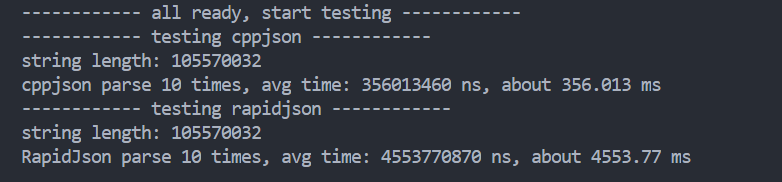
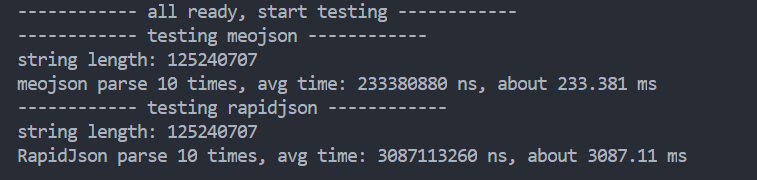
rename project name to 'meojson'

diff --git a/sample/sample.cpp b/sample/sample.cpp
@@ -11,7 +11,7 @@ int main()
         std::string content = R"(
         {
             "prject": {
-                "name": "cppjson",
+                "name": "meojson",
                 "list": [ 
                     1, 2, 3
                 ]
@@ -24,7 +24,7 @@ int main()
 
         if (ret)
         {
-            // Output "cppjson"
+            // Output "meojson"
             std::cout << value["prject"]["name"].as_string() << std::endl;
             // Output 2
             std::cout << value["prject"]["list"][1].as_integer() << std::endl;
@@ -42,27 +42,22 @@ int main()
         std::cout << "****** Generating ******" << std::endl;
 
         json::value json;
-        json["lib"] = "cppjson";
+        json["lib"] = "meojson";
         json["Pi"] = 3.1416;
         json["stars"] = 0;
         json["stars"] = json["stars"].as_integer() + 1;
 
         json["arr"] = json::array(
-            {"a", "b", "c"}
-        );
+            {"a", "b", "c"});
 
         json["obj_aaa"] = json::object(
-            {
-                {"key1", "value1"},
-                {"key2", 123}
-            }
-        );
+            {{"key1", "value1"},
+             {"key2", 123}});
 
         json["obj_bbb"]["key3"] = json::array(
-            {1, 2, 3}
-        );
+            {1, 2, 3});
 
-        // Output "{"obj_bbb":{"key3":[1,2,3]},"obj_aaa":{"key2":123,"key1":"value1"},"arr":["a","b","c"],"Pi":3.141600,"stars":1,"lib":"cppjson"}"
+        // Output "{"obj_bbb":{"key3":[1,2,3]},"obj_aaa":{"key2":123,"key1":"value1"},"arr":["a","b","c"],"Pi":3.141600,"stars":1,"lib":"meojson"}"
         std::cout << json.to_string() << std::endl;
     }
 

diff --git a/test/parse/meojson_test.cpp b/test/parse/meojson_test.cpp
@@ -33,6 +33,6 @@ int main()
     auto e_time = get_time();
     long long avg_time = (e_time - b_time) / loop_times;
 
-    std::cout << "cppjson parse " << loop_times << " times, avg time: " << avg_time << " ns, about " << avg_time / 1000000.0 << " ms" << std::endl;
+    std::cout << "meojson parse " << loop_times << " times, avg time: " << avg_time << " ns, about " << avg_time / 1000000.0 << " ms" << std::endl;
     return 0;
 }

diff --git a/test/generate/generate_test.cpp b/test/generate/generate_test.cpp
@@ -12,7 +12,7 @@ json::array rand_array(int depth);
 constexpr int max_key_length = 64;
 constexpr int max_string_length = 4096;
 constexpr int max_depth = 2;
-constexpr int max_element_length = 128;
+constexpr int max_element_length = 256;
 
 int main()
 {

diff --git a/README.md b/README.md
@@ -1,4 +1,4 @@
-# cppjson
+# meojson
 
 [English](#CPP_JSON_Parser_Generator)
 
@@ -6,7 +6,7 @@
 
 ### 简介
 
-`cppjson`是一个`非常快`的JSON解析/生成库，O(n)级复杂度，解析速度比腾讯RapidJson快12倍以上！
+`meojson`是一个`非常快`的JSON解析/生成库，O(n)级复杂度，解析速度比腾讯RapidJson快12倍以上！
 
 ![image](parse_test.png)
 
@@ -27,7 +27,7 @@ make release
 sudo make install
 ```
 
-2. 在您的项目，添加`-ljson`编译选项中
+2. 在您的项目，添加`-lmeojson`编译选项中
 3. enjoy it!
 
 集成方法请参考`sample/sample.cpp`文件
@@ -36,7 +36,7 @@ sudo make install
 
 ### Introduction
 
-`cppjson` is a `very fast` json parser and generator, O(n) Complexity, 1200% faster than Tecent's RapidJson parser.
+`meojson` is a `very fast` json parser and generator, O(n) Complexity, 1200% faster than Tecent's RapidJson parser.
 
 ![image](parse_test.png)
 
@@ -57,7 +57,7 @@ make release
 sudo make install
 ```
 
-2. Add `-ljson` compilation option to your project
+2. Add `-lmeojson` compilation option to your project
 3. enjoy it!
 
 Please refer to the `sample/sample.cpp` file for integration method
